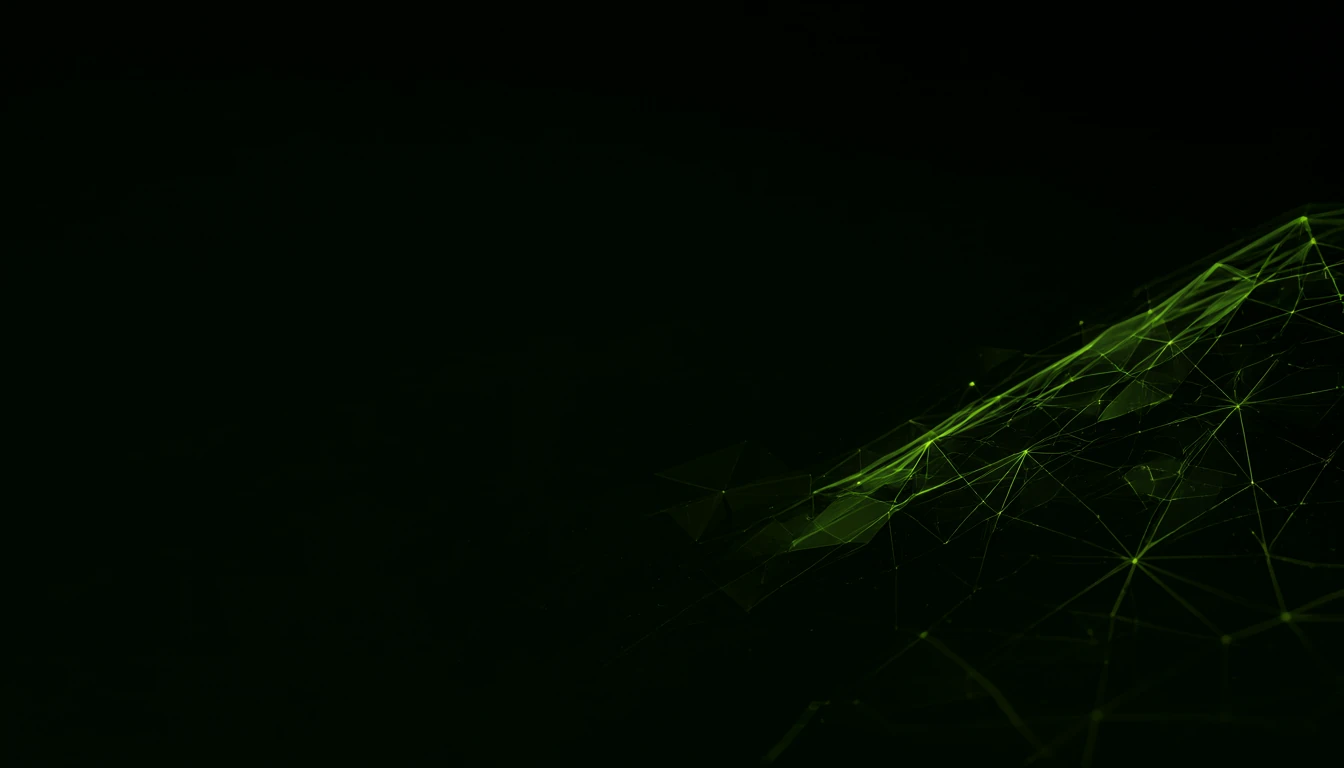
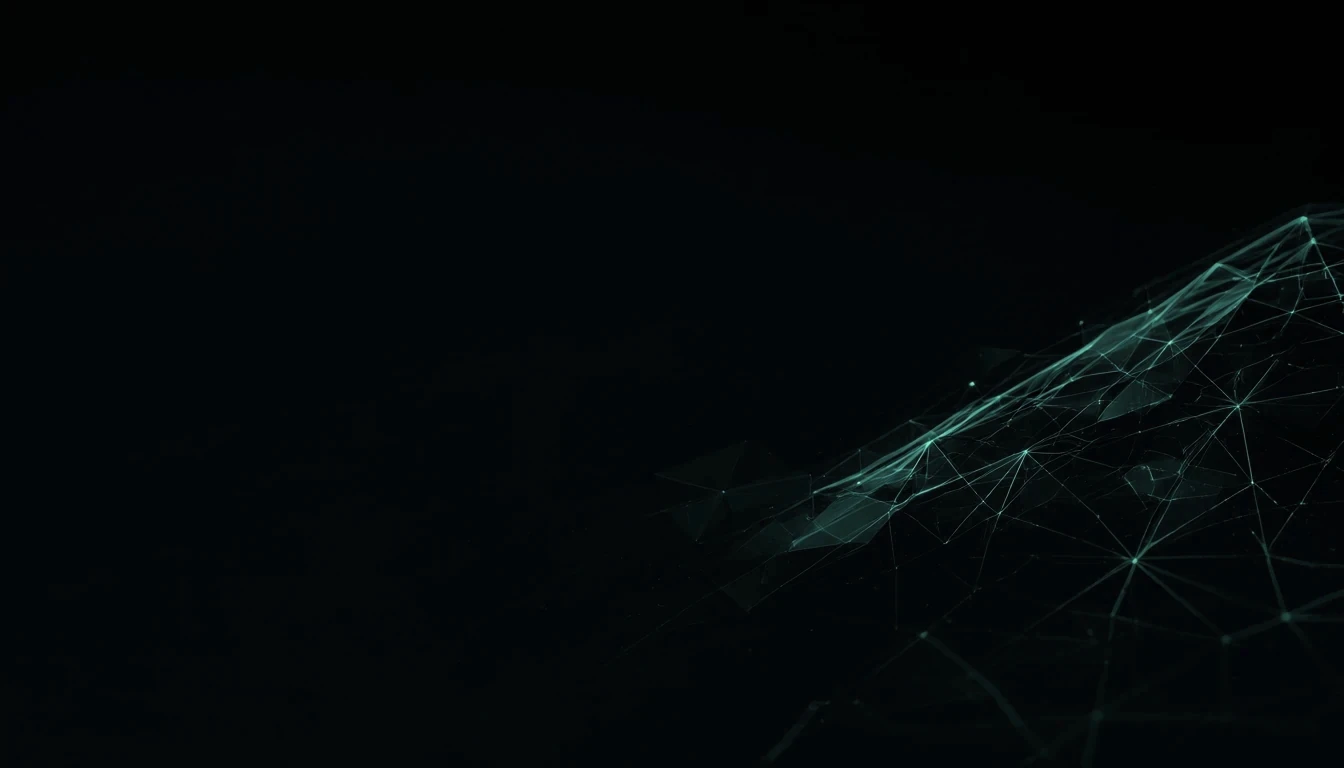
design: use product palette and Trae-inspired motion

diff --git a/nexcore-dark.css b/nexcore-dark.css
@@ -1,27 +1,34 @@
 :root{
-  --paper:#060906;
-  --paper-soft:#0b100c;
-  --paper-strong:#111812;
-  --ink:#f4f7f3;
-  --ink-soft:#d8dfd9;
-  --muted:#98a29a;
-  --line:rgba(244,247,243,.12);
-  --line-dark:rgba(244,247,243,.16);
-  --acid:#75f24c;
-  --acid-deep:#64d941;
+  --paper:#0c0d10;
+  --paper-soft:#12141a;
+  --paper-strong:#181b22;
+  --ink:#f2f4f8;
+  --ink-soft:#b3bccb;
+  --muted:#939eaf;
+  --line:rgba(40,46,56,.92);
+  --line-dark:#444d5b;
+  --acid:#3fbbe0;
+  --acid-deep:#7fd5f0;
+  --accent-solid:#0f6b8a;
+  --brand-lime:#75f24c;
   --display:var(--body);
   --radius:12px;
 }
 html,body{background:var(--paper)}
 body{color:var(--ink)}
-::selection{background:var(--acid);color:#071006}
-.site-header{height:72px;grid-template-columns:minmax(220px,1fr) auto auto;background:rgba(6,9,6,.88);border-bottom-color:var(--line);color:var(--ink)}
+::selection{background:var(--acid);color:#081017}
+.site-header{height:72px;grid-template-columns:minmax(220px,1fr) auto auto;background:rgba(12,13,16,.9);border-bottom-color:var(--line);color:var(--ink)}
+.site-header::after{content:"";position:absolute;left:0;right:0;bottom:-1px;height:1px;background:var(--acid);transform:scaleX(0);transform-origin:left;animation:nav-progress linear both;animation-timeline:scroll(root);will-change:transform}
 .brand strong{font-family:var(--body);font-weight:760;letter-spacing:-.035em}
+.brand strong span{color:var(--brand-lime)}
 .site-header nav a{color:rgba(244,247,243,.66);font-weight:520}
-.header-cta{border-radius:4px;background:var(--acid);border-color:var(--acid);color:#071006;font-weight:650}
-.header-cta:hover{background:#a1ff82;color:#071006;border-color:#a1ff82}
-.hero{min-height:920px;padding-top:124px;background:#050705;color:var(--ink)}
-.hero::before{background:linear-gradient(90deg,rgba(5,7,5,.98) 0%,rgba(5,7,5,.92) 33%,rgba(5,7,5,.48) 62%,rgba(5,7,5,.8) 100%),url("assets/generated/hero-signal.webp") center right/cover no-repeat}
+.site-header nav a[aria-current]{color:var(--acid)}
+.site-header nav a[aria-current]::after{content:"";display:block;height:1px;margin-top:4px;background:var(--acid)}
+.header-cta{border-radius:4px;background:var(--accent-solid);border-color:var(--acid);color:var(--ink);font-weight:650}
+.header-cta:hover{background:#117fa5;color:#fff;border-color:var(--acid-deep)}
+.hero{min-height:920px;padding-top:124px;background:#0c0d10;color:var(--ink)}
+.hero::before{background:linear-gradient(90deg,rgba(12,13,16,.98) 0%,rgba(12,13,16,.92) 33%,rgba(12,13,16,.48) 62%,rgba(12,13,16,.8) 100%),url("assets/generated/hero-signal.webp") center right/cover no-repeat}
+.hero::before{will-change:transform;animation:hero-field 22s ease-in-out infinite alternate}
 .hero::after{opacity:.08}
 .hero-grid{grid-template-columns:minmax(0,1fr) minmax(400px,.93fr);gap:clamp(38px,6vw,92px)}
 .eyebrow{display:none}
@@ -29,66 +36,82 @@ body{color:var(--ink)}
 .hero h1 em{color:var(--acid);font-style:normal}
 .lead{color:rgba(244,247,243,.66)}
 .button{border-radius:4px;font-weight:650}
-.button-accent{color:#071006}
-.button-accent,.stage-caption{background:var(--acid)}
+.button-accent{background:var(--accent-solid);color:var(--ink);border-color:var(--acid)}
+.button-accent:hover{background:#117fa5}
+.stage-caption{background:var(--acid);color:#081017}
 .button-live{border-radius:4px}
-.button-quiet{color:var(--ink)}
+.button-quiet{color:var(--ink);border-color:var(--line-dark)}
 .hero-stats{border-top-color:var(--line)}
 .hero-stats dt{color:var(--acid);font-size:28px}
 .hero-stats dd{color:rgba(244,247,243,.5)}
 .stage-caption{transform:none;font-family:var(--body);font-size:11px;font-weight:700}
-.stage-frame{padding:8px;border-color:rgba(117,242,76,.28);border-radius:12px;background:#0c110d;transform:none;box-shadow:0 34px 100px rgba(0,0,0,.6),0 0 0 1px rgba(117,242,76,.08)}
+.stage-frame{padding:8px;border-color:rgba(63,187,224,.3);border-radius:12px;background:#12141a;transform:none;box-shadow:0 34px 100px rgba(0,0,0,.6),0 0 0 1px rgba(63,187,224,.08)}
 .stage-frame:hover{transform:translateY(-4px)}
 .stage-frame img{border-radius:7px;aspect-ratio:8/5;object-fit:cover;object-position:top left}
 .hero-stage figcaption{color:rgba(244,247,243,.42)}
-.orbit{border-color:rgba(117,242,76,.18)}
+.orbit{border-color:rgba(63,187,224,.2)}
+.js .hero-copy>*{opacity:0;animation:hero-rise 720ms cubic-bezier(.16,1,.3,1) forwards}
+.js .hero-copy h1{animation-delay:80ms}
+.js .hero-copy .lead{animation-delay:180ms}
+.js .hero-copy .hero-actions{animation-delay:270ms}
+.js .hero-copy .hero-stats{animation-delay:360ms}
+.js .hero-stage{opacity:0;animation:stage-rise 900ms 180ms cubic-bezier(.16,1,.3,1) forwards,stage-float 1.15s 1.08s cubic-bezier(.16,1,.3,1)}
 .manifesto,.context-section,.models,.capabilities,.local,.proof{background:var(--paper);color:var(--ink)}
-.execution{position:relative;overflow:hidden;background:#090d0a;color:var(--ink)}
-.execution::before{content:"";position:absolute;inset:0;background:linear-gradient(90deg,rgba(9,13,10,.96),rgba(9,13,10,.64) 55%,rgba(9,13,10,.92)),url("assets/generated/orchestration.webp") center/cover no-repeat;opacity:.78;pointer-events:none}
+.execution{position:relative;overflow:hidden;background:#12141a;color:var(--ink)}
+.execution::before{content:"";position:absolute;inset:0;background:linear-gradient(90deg,rgba(18,20,26,.96),rgba(18,20,26,.64) 55%,rgba(18,20,26,.92)),url("assets/generated/orchestration.webp") center/cover no-repeat;opacity:.78;pointer-events:none}
+.execution::before{transform-origin:center;animation:orchestration-drift linear both;animation-timeline:view();animation-range:entry 0% exit 100%;will-change:transform}
 .execution>*{position:relative;z-index:1}
 .manifesto h2,.section-heading h2,.context-sticky h2,.model-copy h2,.capability-intro h2,.local-copy h2,.proof h2,.download h2,.windows-showcase h2{font-family:var(--body);font-weight:730;letter-spacing:-.05em}
 .section-kicker{color:var(--acid);font-weight:650}
 .manifesto-copy>p:last-child,.workbench-points p,.model-copy>p,.local-copy>p,.download-copy>p,.windows-showcase-lead p{color:var(--muted)}
-.workbench-visual,.execution-shot,.trace-card,.capability-card,.source-card,.download-card,.windows-gallery a{border-color:var(--line);background:#0c110d;box-shadow:none;border-radius:12px}
+.workbench-visual,.execution-shot,.trace-card,.capability-card,.source-card,.download-card,.windows-gallery a{border-color:var(--line);background:#12141a;box-shadow:none;border-radius:12px}
 .visual-tag{background:rgba(12,17,13,.92);border-color:var(--line);border-radius:8px}
 .workbench-points,.context-stack li,.proof-grid,.windows-release{border-color:var(--line)}
 .execution-board{gap:16px}
-.trace-card{background:rgba(8,12,9,.92)}
+.trace-card{background:rgba(12,13,16,.94)}
 .context-section{border-block:1px solid var(--line)}
 .context-stack li{background:transparent}
-.models{background:#080c09}
-.model-shot{background:#0c110d;border:1px solid var(--line);border-radius:12px;padding:8px}
+.models{background:#0c0d10}
+.model-shot{background:#12141a;border:1px solid var(--line);border-radius:12px;padding:8px}
 .model-shot img{border-radius:6px}
 .model-rules p{border-color:var(--line)}
-.capabilities{background:#050805}
+.capabilities{background:#0c0d10}
 .capability-card{position:relative;overflow:hidden}
 .card-memory{color:var(--ink)}
 .capability-card img{filter:saturate(.8) contrast(1.03)}
-.local{background:#0b100c;color:var(--ink)}
+.local{background:#12141a;color:var(--ink)}
 .local-shot img,.execution-shot img,.workbench-visual img{border-radius:6px}
 .proof-grid{background:var(--line)}
-.proof-grid>div{background:#0a0e0b}
-.download{background:var(--acid);color:#071006}
-.download .section-kicker,.download-copy>p{color:rgba(7,16,6,.68)}
-.download-card{background:#071006;color:#f4f7f3;border-color:#071006}
+.proof-grid>div{background:#12141a}
+.download{background:var(--accent-solid);color:var(--ink)}
+.download .section-kicker,.download-copy>p{color:rgba(242,244,248,.72)}
+.download-card{background:#0c0d10;color:var(--ink);border-color:#444d5b}
 .download-card b{color:var(--ink)}
 .download-card .button-accent{background:var(--acid);color:#071006}
-.windows-showcase{background:#090d0a;border-color:var(--line)}
+.windows-showcase{background:#12141a;border-color:var(--line)}
+.windows-gallery a{opacity:0;transform:translateY(24px);animation:gallery-rise linear both;animation-timeline:view();animation-range:entry 8% cover 34%}
 .windows-feature-row span{border-color:var(--line);color:var(--ink-soft)}
-.windows-gallery b{background:#050805e8;color:var(--acid)}
-.site-footer{background:#040604;border-top-color:var(--line);color:#f4f7f3}
+.windows-gallery b{background:#0c0d10e8;color:var(--acid)}
+.site-footer{background:#090a0d;border-top-color:var(--line);color:var(--ink)}
 .site-footer p,.site-footer small,.site-footer a{color:rgba(244,247,243,.58)}
 .trace-card code{color:var(--ink)}
-.android-hero{background:linear-gradient(90deg,rgba(6,9,6,.99),rgba(6,9,6,.78)),url("assets/generated/hero-signal.webp") right center/cover no-repeat;border-color:var(--line)}
+.android-hero{background:linear-gradient(90deg,rgba(12,13,16,.99),rgba(12,13,16,.78)),url("assets/generated/hero-signal.webp") right center/cover no-repeat;border-color:var(--line)}
 .android-copy h1{font-family:var(--body);font-weight:780;letter-spacing:-.065em}
-.android-download-card{background:#0c110d;border-color:var(--line);border-radius:12px;transform:none}
+.android-download-card{background:#12141a;border-color:var(--line);border-radius:12px;transform:none}
 .android-facts div{border-color:var(--line)}
 .android-steps,.android-gallery{background:var(--paper)}
-.android-steps>ol li,.android-grid figure{background:#0c110d;border-color:var(--line);border-radius:10px}
-.android-security{background:#080c09;border-color:var(--line)}
+.android-steps>ol li,.android-grid figure{background:#12141a;border-color:var(--line);border-radius:10px}
+.android-security{background:#0c0d10;border-color:var(--line)}
 .android-security-grid{background:var(--line)}
-.android-security-grid article{background:#080c09}
+.android-security-grid article{background:#0c0d10}
 .android-grid img{border-radius:5px}
+@keyframes hero-field{from{transform:scale(1.025) translate3d(0,0,0)}to{transform:scale(1.065) translate3d(-1.8%,1.2%,0)}}
+@keyframes hero-rise{from{opacity:0;transform:translateY(28px);filter:blur(8px)}to{opacity:1;transform:none;filter:none}}
+@keyframes stage-rise{from{opacity:0;transform:translateY(34px) scale(.965)}to{opacity:1;transform:translateY(0) scale(1)}}
+@keyframes stage-float{from{transform:translateY(0)}to{transform:translateY(-9px)}}
+@keyframes orchestration-drift{from{transform:scale(1.08) translate3d(-1%,1%,0)}to{transform:scale(1.02) translate3d(1.5%,-1.5%,0)}}
+@keyframes gallery-rise{from{opacity:0;transform:translateY(28px)}to{opacity:1;transform:none}}
+@keyframes nav-progress{from{transform:scaleX(0)}to{transform:scaleX(1)}}
 @media(max-width:900px){
   .site-header{grid-template-columns:1fr auto}
   .site-header nav{display:none}
@@ -110,4 +133,6 @@ body{color:var(--ink)}
 @media(prefers-reduced-motion:reduce){
   html{scroll-behavior:auto}
   *,*::before,*::after{transition-duration:.01ms!important;animation-duration:.01ms!important}
+  .js .hero-copy>*,.js .hero-stage,.windows-gallery a{opacity:1!important;transform:none!important;filter:none!important}
+  .site-header::after{display:none}
 }

diff --git a/app.js b/app.js
@@ -24,7 +24,27 @@ if ("IntersectionObserver" in window) {
       observer.unobserve(entry.target);
     }
   }, { threshold: 0.12 });
-  revealItems.forEach((item) => observer.observe(item));
+  revealItems.forEach((item, index) => {
+    item.style.setProperty("--reveal-delay", `${Math.min(index % 4, 3) * 70}ms`);
+    observer.observe(item);
+  });
 } else {
   revealItems.forEach((item) => item.classList.add("is-visible"));
+}
+
+const navLinks = [...document.querySelectorAll('.site-header nav a[href^="#"]')];
+if ("IntersectionObserver" in window && navLinks.length) {
+  const sections = navLinks
+    .map(link => ({ link, section: document.querySelector(link.getAttribute("href")) }))
+    .filter(item => item.section);
+  const activeSection = new IntersectionObserver((entries) => {
+    for (const entry of entries) {
+      if (!entry.isIntersecting) continue;
+      for (const { link, section } of sections) {
+        if (section === entry.target) link.setAttribute("aria-current", "location");
+        else link.removeAttribute("aria-current");
+      }
+    }
+  }, { rootMargin: "-35% 0px -55%", threshold: 0 });
+  sections.forEach(({ section }) => activeSection.observe(section));
 }

diff --git a/styles.css b/styles.css
@@ -209,7 +209,7 @@ button { font: inherit; color: inherit; }
 .site-footer > div { display: flex; gap: 22px; font-size: 11px; color: rgba(240, 238, 229, .56); }
 .site-footer > small { font-family: var(--mono); font-size: 9px; color: rgba(240, 238, 229, .28); }
 
-.js .reveal { opacity: 0; transform: translateY(22px); transition: opacity 620ms var(--ease), transform 620ms var(--ease); }
+.js .reveal { opacity: 0; transform: translateY(22px); transition: opacity 620ms var(--ease), transform 620ms var(--ease); transition-delay: var(--reveal-delay, 0ms); }
 .js .reveal.is-visible { opacity: 1; transform: none; }
 
 @media (max-width: 1100px) {
